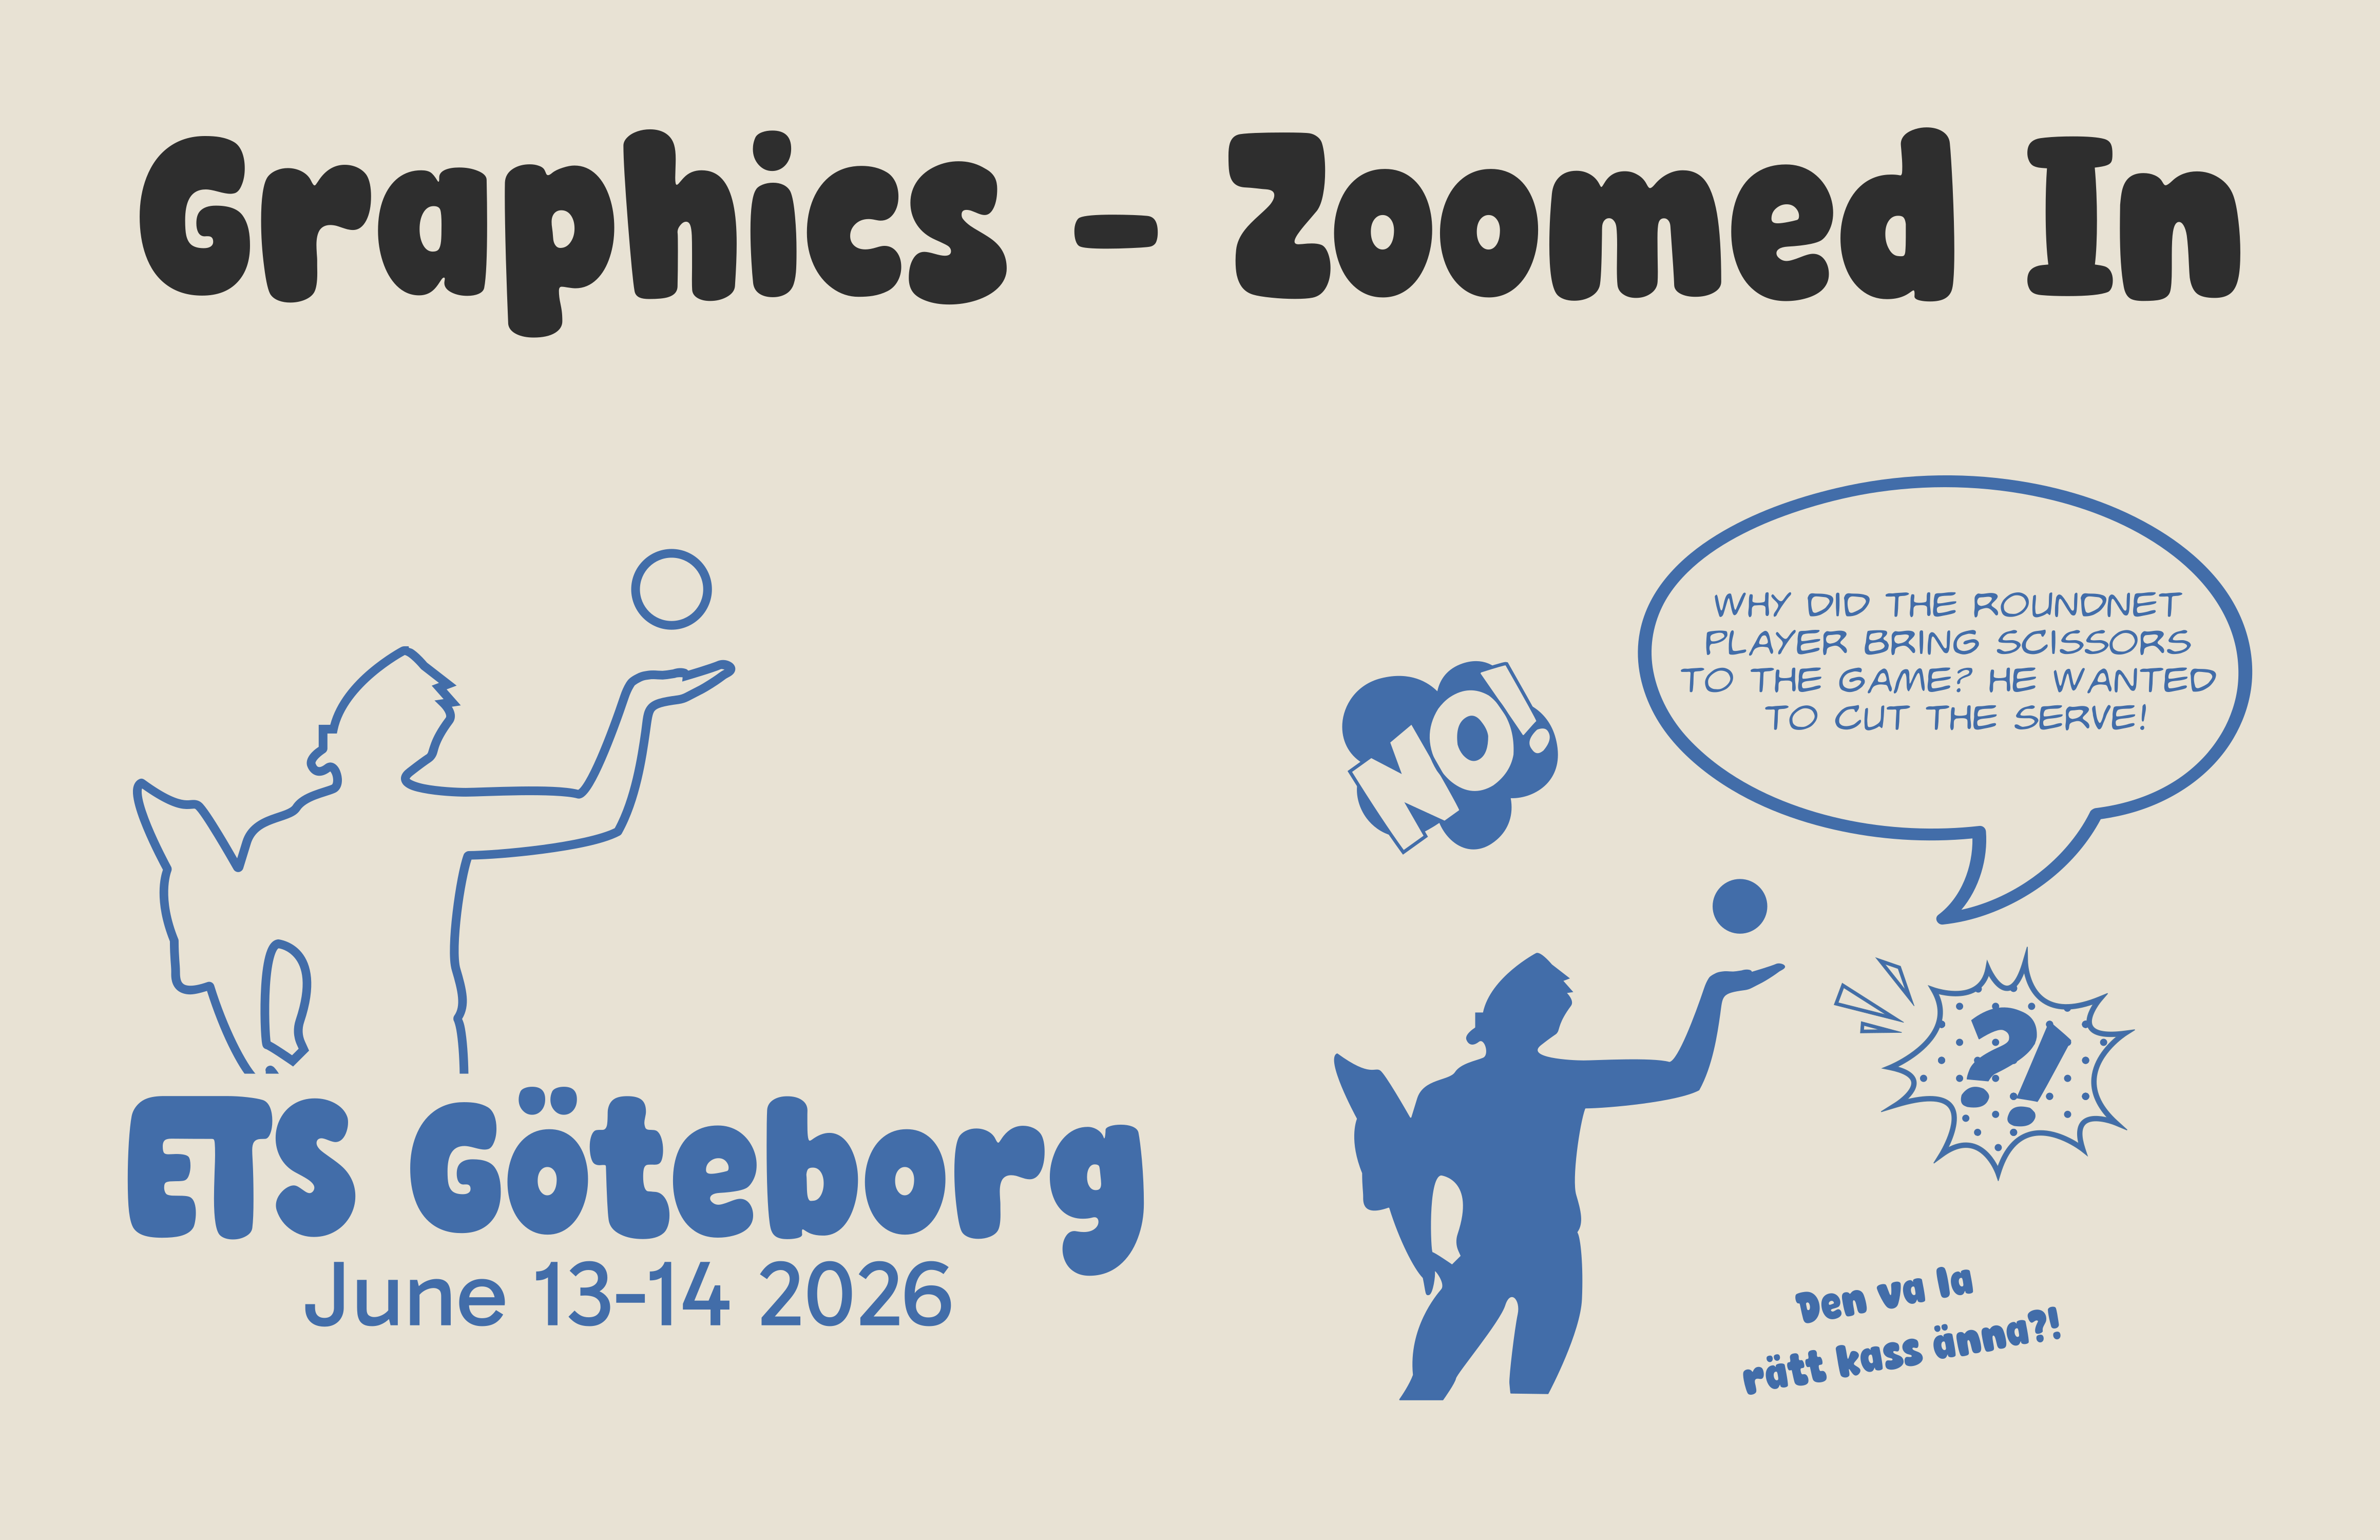
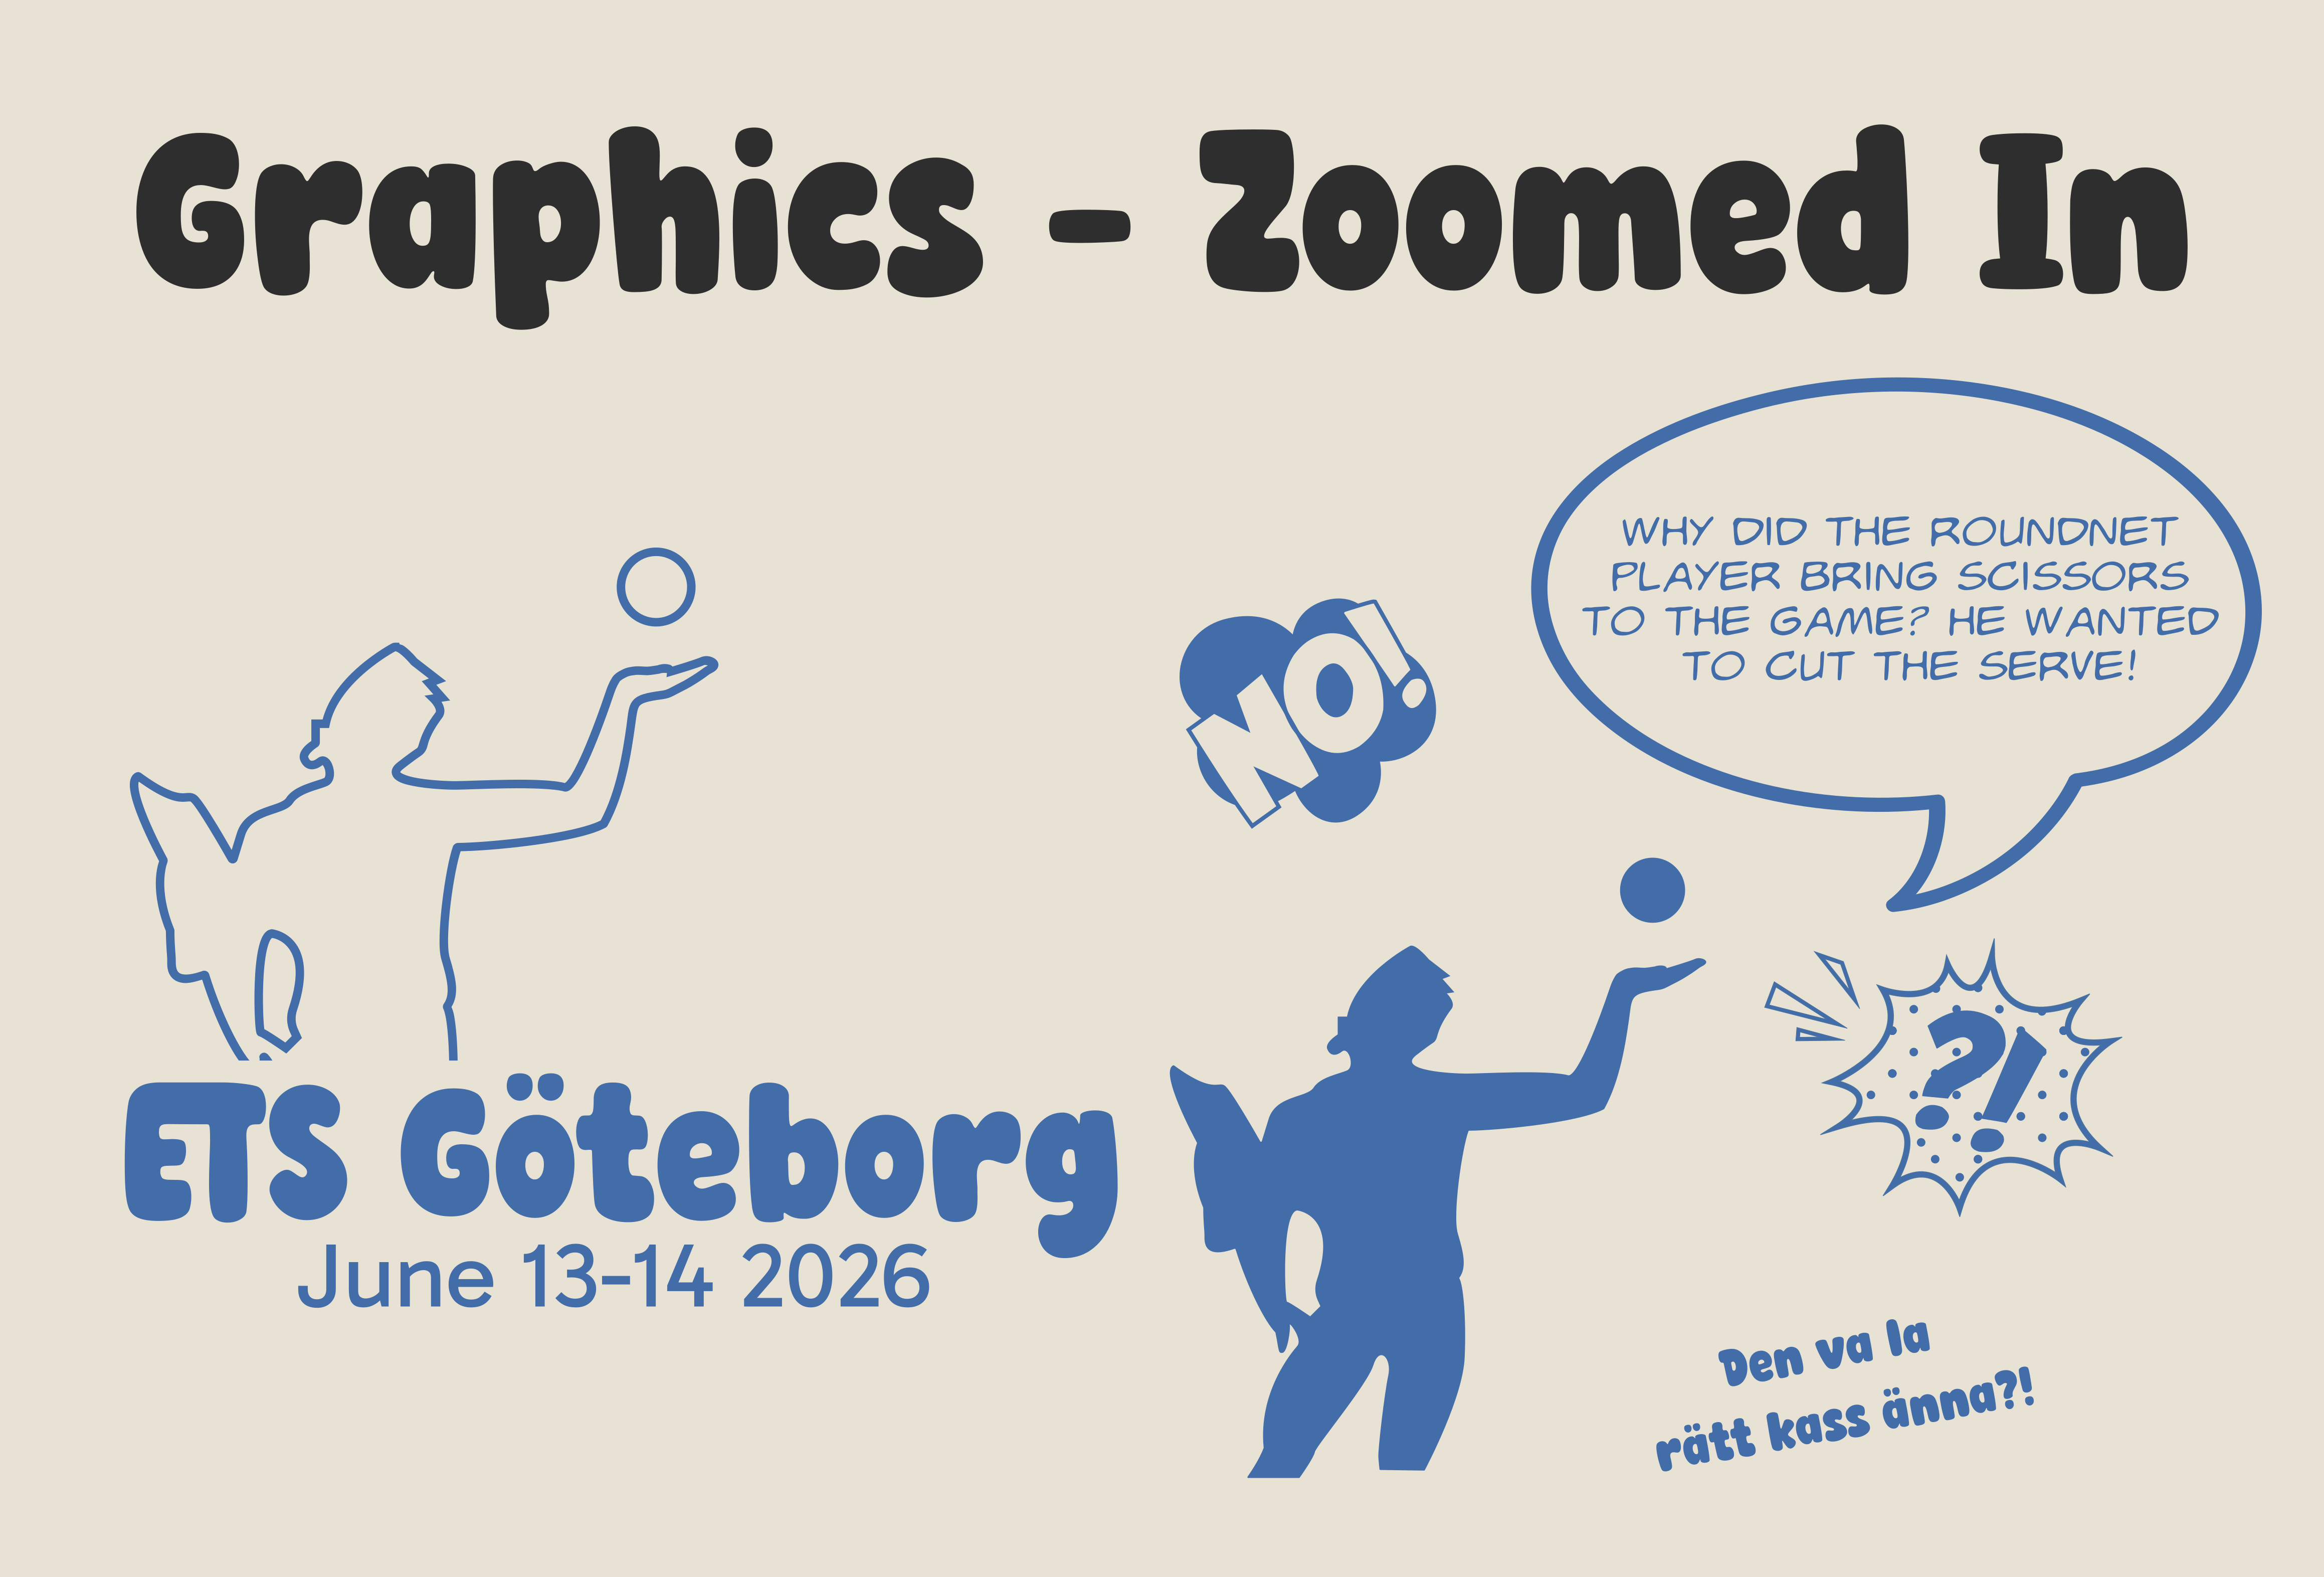
bla

diff --git a/merch_backup.html b/merch_backup.html
@@ -133,7 +133,7 @@
         </p>
 
         <p class="mb-5 text-center">
-          <a href="https://forms.gle/F67j4pWSSeXd4isD9" class="btn rounded-pill px-4 py-2" style="background-color:#2b4299; color:#fff;">Order merch →</a>
+          <a href="https://forms.gle/F67j4pWSSeXd4isD9" class="btn rounded-pill px-4 py-2" style="background-color:#2b4299; color:#fff;">Order merch here →</a>
         </p>
 
         <div class="row g-4">